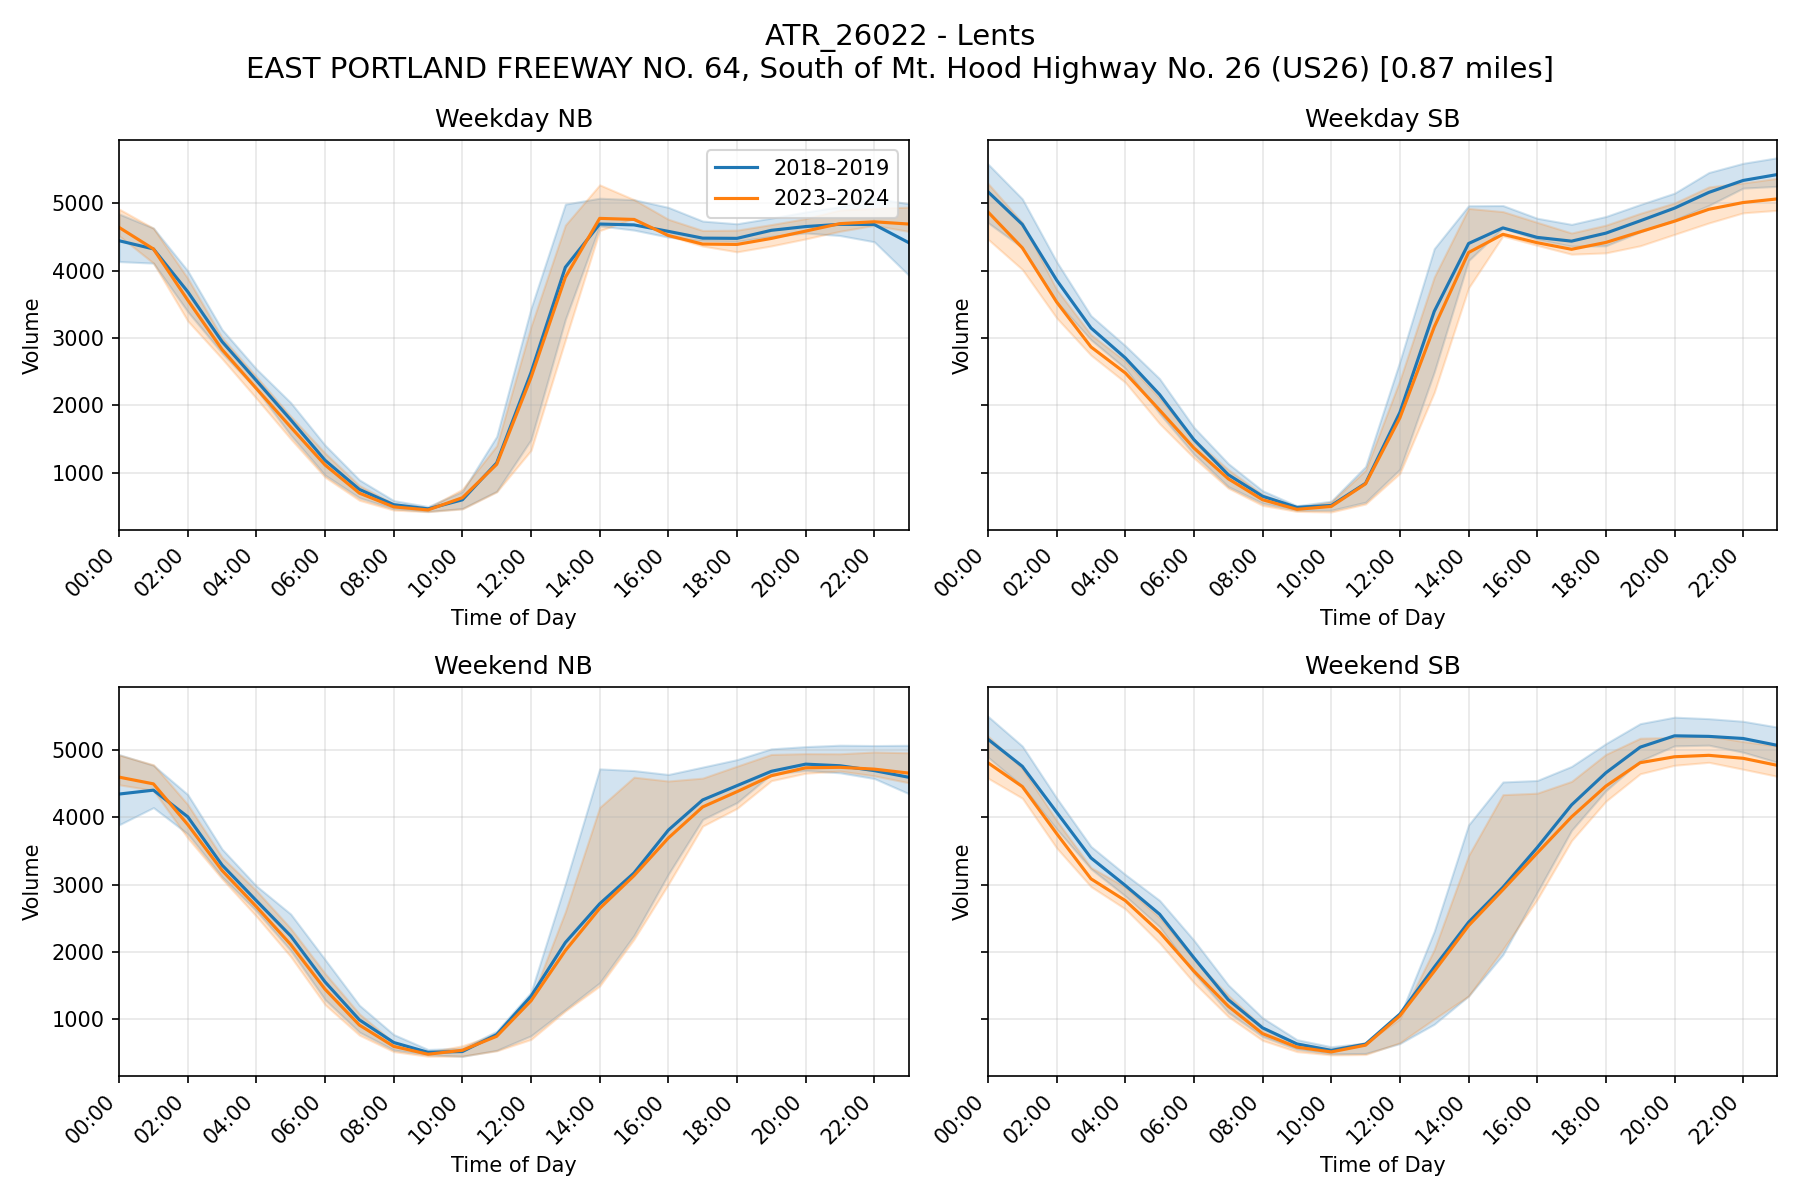
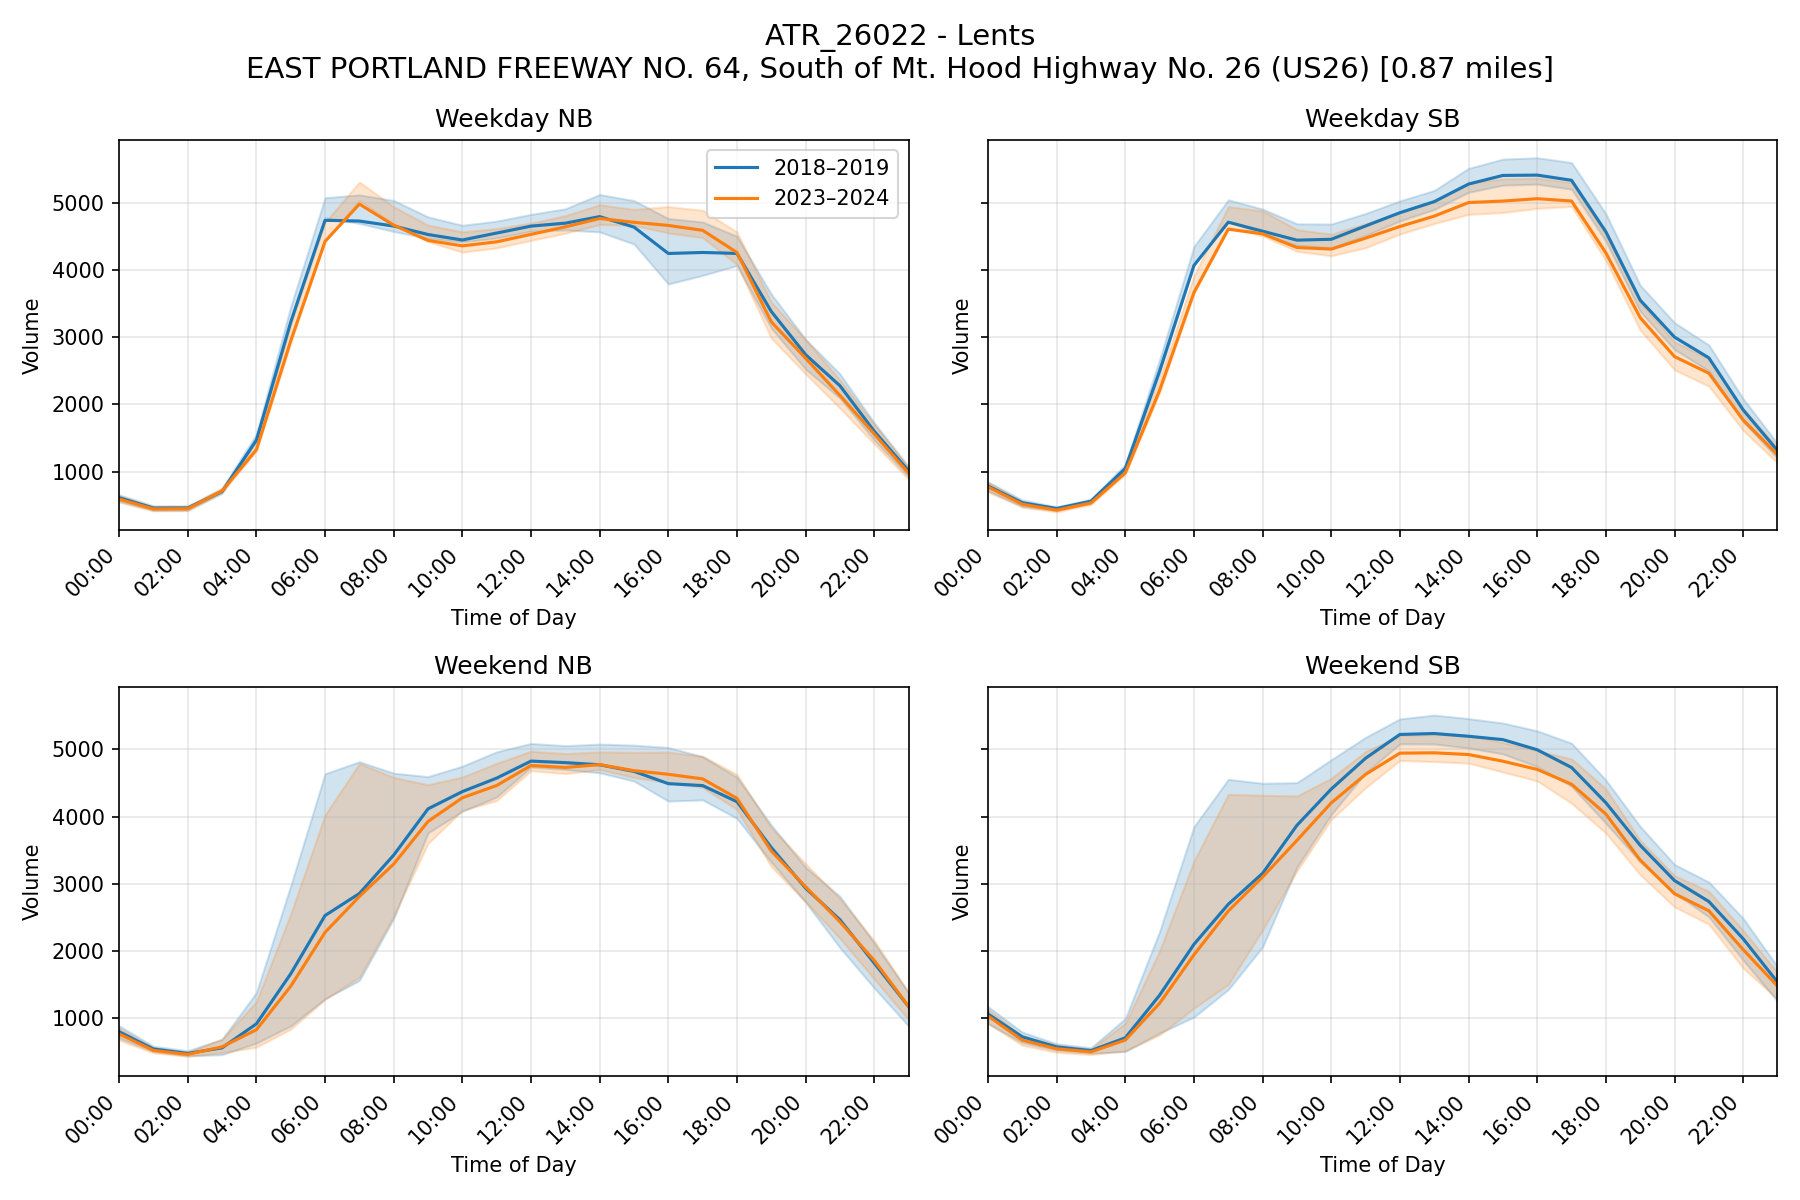
fixed timezone so plots are all local time with DST accounted for

diff --git a/main.py b/main.py
@@ -105,10 +105,9 @@ def read_all(folder: str) -> pl.DataFrame:
             pl.col("StartDate").str.strptime(pl.Datetime("us"), strict=False),
             pl.col("EndDate").str.strptime(pl.Datetime("us"), strict=False),
         ])
-        # Ensure datetime columns are tz-naive (if needed)
         df_csv = df_csv.with_columns([
-            pl.col("StartDate").dt.replace_time_zone(None),  # drop tz
-            pl.col("EndDate").dt.replace_time_zone(None),
+            pl.col("StartDate").dt.replace_time_zone("UTC"),
+            pl.col("EndDate").dt.replace_time_zone("UTC"),
         ])
         # Force all integer columns to Int64
         df_csv = df_csv.with_columns(
@@ -132,10 +131,10 @@ def read_all(folder: str) -> pl.DataFrame:
 
     for file in pq_files:
         df_pq = pl.read_parquet(file)
-        # Ensure datetime columns are tz-naive (if needed)
+        # Ensure datetime columns are UTC
         df_pq = df_pq.with_columns([
-            pl.col("StartDate").dt.replace_time_zone(None),  # drop tz
-            pl.col("EndDate").dt.replace_time_zone(None),
+            pl.col("StartDate").dt.replace_time_zone("UTC"), 
+            pl.col("EndDate").dt.replace_time_zone("UTC"),
         ])
         # Force numeric columns to Int64
         df_pq = df_pq.with_columns(
@@ -198,9 +197,12 @@ def preprocess_data_polars(folder: str) -> pl.DataFrame:
         (pl.col("HourCol").str.strip_prefix("H").cast(pl.Int64) - 1).alias("HourOffset")
     ])
 
-    # Shift DateTime
+    # Shift DateTime and convert to PST/PDT
     df_long = df_long.with_columns([
         (pl.col("DateTime") + pl.duration(hours="HourOffset")).alias("DateTime")
+    ])
+    df_long = df_long.with_columns([
+        pl.col("DateTime").dt.convert_time_zone("America/Los_Angeles").alias("DateTime")
     ])
 
     # 9) Additional columns

diff --git a/weekly_reports/week3.md b/weekly_reports/week3.md
@@ -56,8 +56,6 @@ And when `Directions` is a number it seems to match the lane information parsed 
 
 Here we plot the hourly pre- vs post-covid ATR count data averages and IQRs. The columns correspond to the direction of travel and the rows to weekdays and weekend data. Generally, the post-covid trends are below the pre-covid ones. It isn't immediately clear if this is due to congestion or less demand.
 
-NOTE: These plots only make sense to me if the times are UTC... Shifting each plot 8 hours to the left to get PST would make them more sensible.
-
 ### Interstate Bridge
 
 These results don't seem to line up with the provided information of lane occlusion in the 2024 data but maybe the impact is smaller than the increase in volume?
